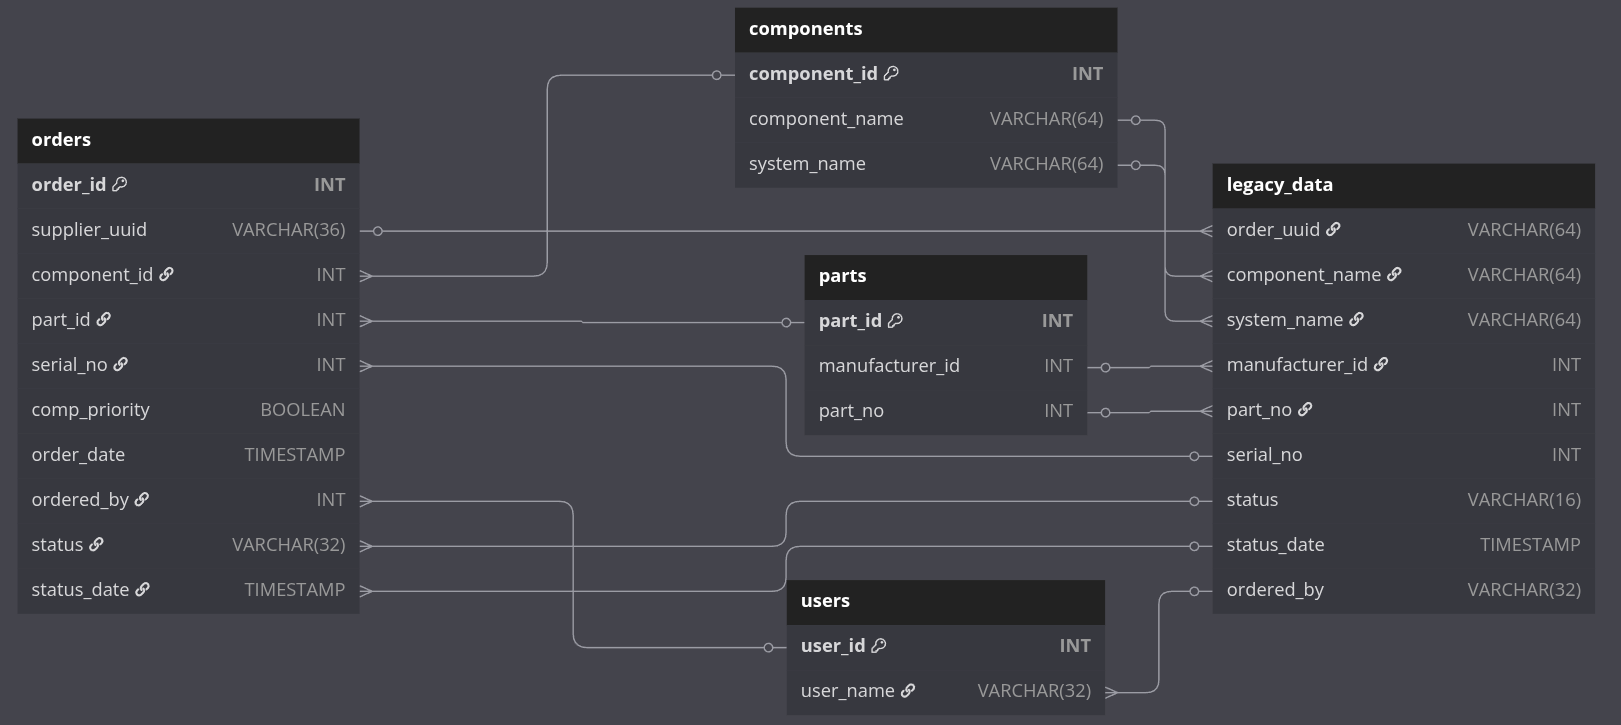
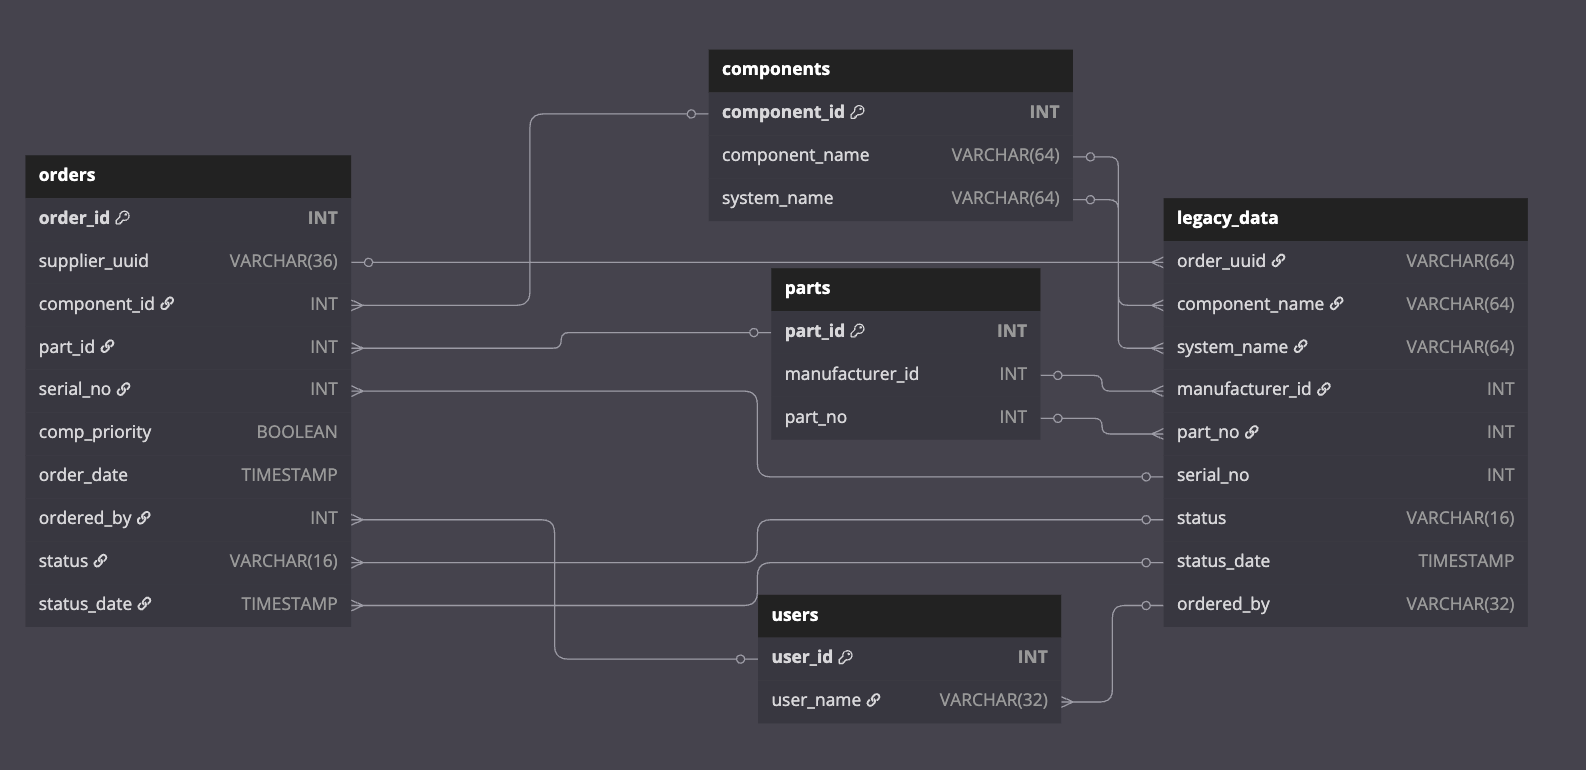
chore(docs): finalize schema and diagram

diff --git a/README.md b/README.md
@@ -25,7 +25,7 @@ A DBA has designed a new PostgreSQL schema to store the recovered legacy data an
 Your task is to write scripts to clean and ingest the legacy data, simulating both batch and stream processing. You should spend no more than four hours on the coding portion. Be prepared to discuss your approach during the assessment, but you do not need to submit written answers to the questions.
 
 ### Evaluation criteria
-To "pass" the assessment, there must be valid *cleaned* entries in the `components` and `users` table for each element in the data.  To be considered competetive, there should be an entry in the `parts` table for all parts in the batch and streaming process as well as an order in the `orders` table for each `order_uuid` in the both sources of data.  There will be other automated tests to check for cleaning and formatting as well.  There will also be a general assessment of code quality and complexity, but the highest weight is getting the right data into the database.
+To "pass" the assessment, there must be valid *cleaned* entries in the `components` and `users` table for each element in the batch orders.  To be considered competetive, there should be an entry in the `parts` table for all parts in the batch and streaming data as well as an order in the `orders` table for each `order_uuid` in the both sources of data.  There will be other automated tests to check for cleaning and formatting as well.  There will also be a general assessment of code quality and complexity, but the highest weight is getting the right data into the database.
 
 ### Questions
 Be prepared to answer questions about the design and implementation of the storage.  Examples include:
@@ -71,7 +71,7 @@ This is the main table to track orders.  It has the following fields:
 * `component_id`: References components table
 * `part_id`: References parts table
 * `serial_no`: Integer serial number of part ordered
-* `comp_priority`: Boolean, set to true if this is a priority order
+* `comp_priority`: Boolean, false for batch orders, true for streaming orders
 * `order_date`: Datetime the date status was set to `ORDERED` (may be null if last status is `PENDING`)
 * `ordered_by`: References `users.user_id` that submitted the order
 * `status`: VARCHAR(16), current order status. valid entries are `PENDING`, `ORDERED`, `SHIPPED`, and `RECEIVED`
@@ -83,13 +83,13 @@ The batch processing dump is in the `data/batch_orders.parquet` file and the str
 ### Batch Order Data
 The batch orders are in a parquet where each row represents a status update.  Keep in mind that not every row has all of the fields filled so you'll have to do some aggregating and cleaning. Below is a list of fields and any cleaning needed.
 * `order_uuid`: UUID the shipping system uses to keep track of orders
-* `component_name`: name of the component (multiple cases, spaces may be `_` characters)
+* `component_name`: name of the component (multiple cases, `'_'` may be interchanged with `' '` characters)
 * `system_name`: name of the system (no cleaning required)
 * `manufacturer_id`: integer id of the manufactuer (no cleaning required)
 * `part_no`: integer part number (no cleaning required)
 * `serial_no`: integer serial number (no cleaning required)
-* `status`: status of order (no cleaning required for formatting)
-* `status_date`: datetime of update in `YYYY-MM-DD HH:MM:SS` format (no cleaning required for formatting)
+* `status`: status of order (no cleaning required)
+* `status_date`: datetime of update in `YYYY-MM-DD HH:MM:SS` format
 * `ordered_by`: Name of user who ordered part (only shows in `PENDING` rows for batch orders or `ORDERED` messages for the streaming format, different name formats)
 
 ### Priority (streaming) Order Data
